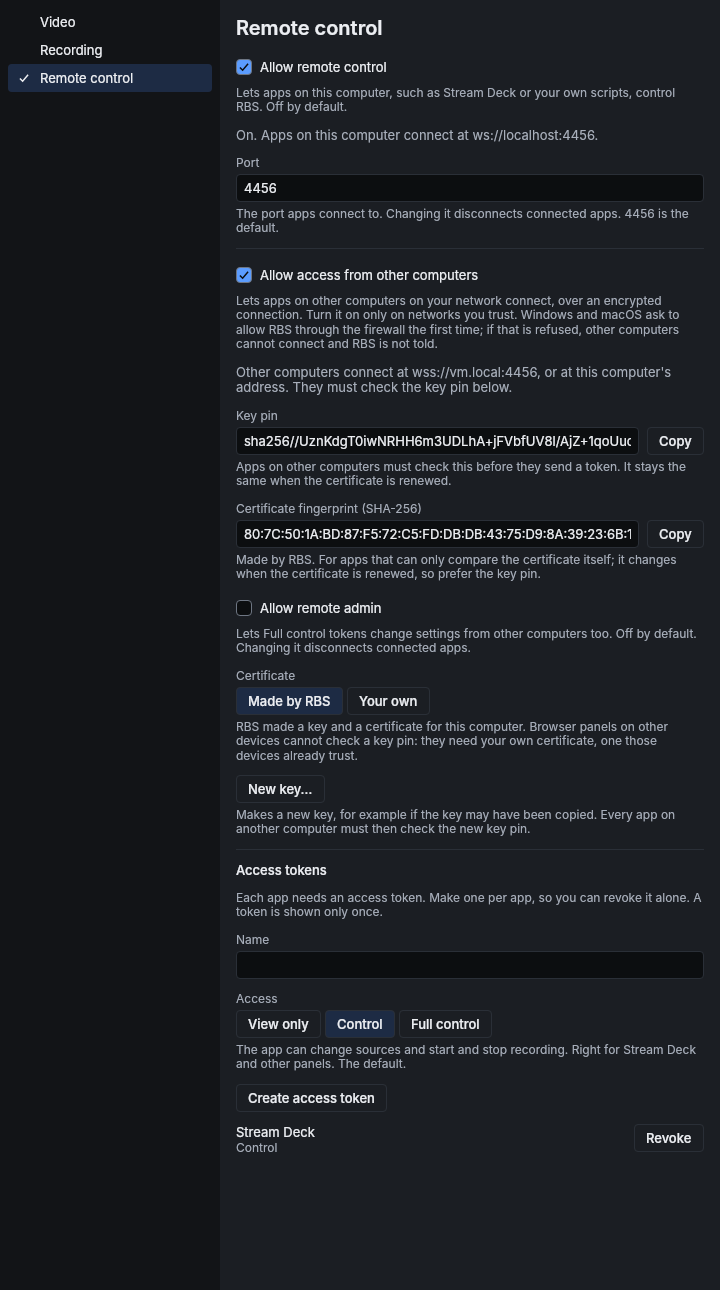
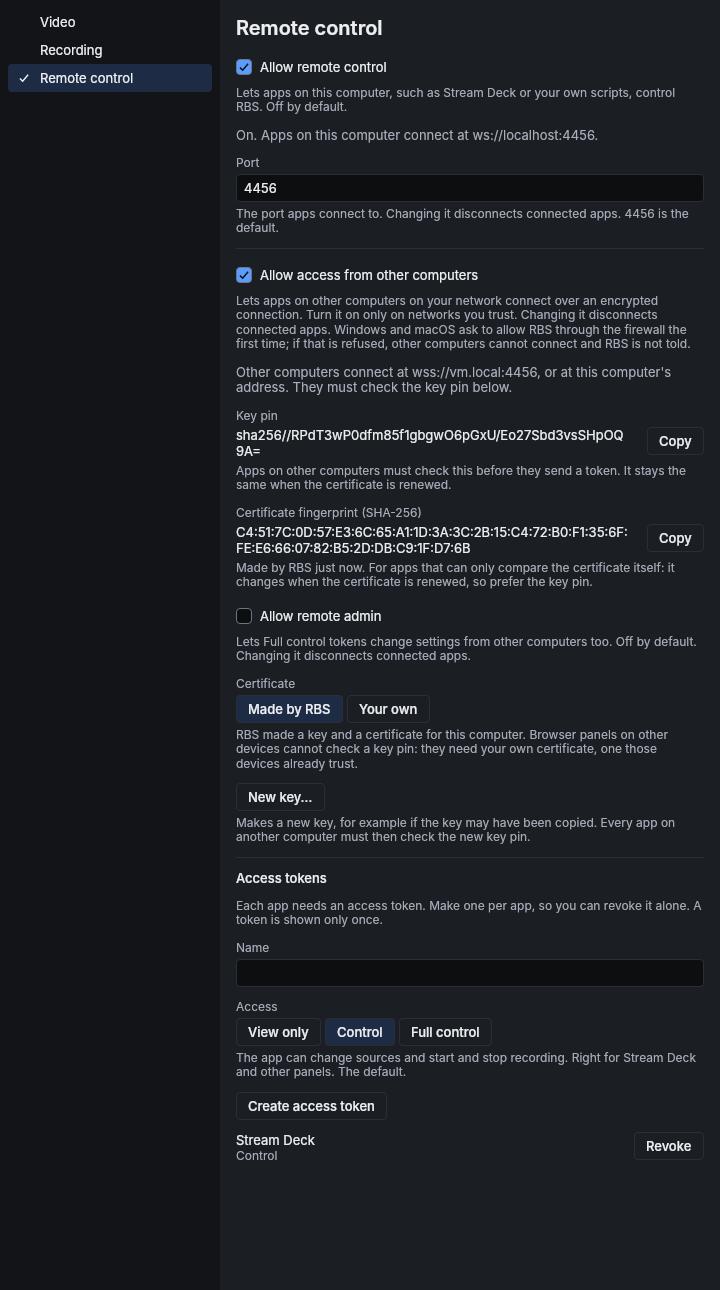
rbs-app network access: address the independent review
- The computer's name is worked out once when the server starts, not on
  every UI sync (it ran `hostname` per window per update).
- Tokens are read again under the lock before the certificate is made or
  renewed, since that saves the whole settings file: a revoke rbs-cli made
  meanwhile is no longer put back.
- The hints say that turning access from other computers on or off, or
  using other certificate files, disconnects connected apps.
- Problems with own files, New key or a busy settings file are shown next to
  those controls, with what to do.
- The Certificate control follows the setting in use: picking "Your own" is
  kept apart from the setting, so a refused change cannot leave it wrong.
- The key pin and fingerprint are shown whole (wrapping), each with Copy.
- When the server cannot start with access from other computers on, the
  message also offers turning that off. Wording: no "network access" or
  "client" in UI text, no sentence built from two parts.
- Screenshots retaken.

Claude-Session: https://claude.ai/code/session_01JNUCDRq8pS8ReK1uTvscCB

diff --git a/crates/rbs-app/src/studio_ui.rs b/crates/rbs-app/src/studio_ui.rs
@@ -129,6 +129,8 @@ pub struct StudioUi {
     network: Option<NetworkShown>,
     /// Why other computers cannot connect although network access is on.
     network_failure: Option<String>,
+    /// A problem with a network access change (own files, new key, busy settings).
+    network_note: String,
 }
 
 /// What the Remote control section shows while other computers can connect.
@@ -137,6 +139,8 @@ struct NetworkShown {
     fingerprint: String,
     /// Where the certificate came from, and whether it was just renewed.
     note: String,
+    /// The name other computers may use, worked out once when the server started.
+    host: Option<String>,
 }
 
 /// The remote control settings are locked by another program.
@@ -208,6 +212,7 @@ impl StudioUi {
             tokens: Rc::new(VecModel::default()),
             network: None,
             network_failure: None,
+            network_note: String::new(),
         };
         ui.refresh_tokens();
         ui
@@ -396,6 +401,7 @@ impl StudioUi {
         g.set_rc_cert_note(shown.map(|n| n.note.as_str()).unwrap_or_default().into());
         let (status, bad) = self.network_status();
         g.set_rc_network_status(status.into());
+        g.set_rc_network_note(self.network_note.as_str().into());
         g.set_rc_network_status_bad(bad);
     }
 
@@ -407,9 +413,10 @@ impl StudioUi {
         if let Some(why) = &self.network_failure {
             return (format!("Other computers cannot connect: {why}."), true);
         }
-        let name = network_access::host_names()
-            .into_iter()
-            .next()
+        let name = self
+            .network
+            .as_ref()
+            .and_then(|n| n.host.clone())
             .unwrap_or_else(|| "<this computer's address>".into());
         (
             format!(
@@ -429,7 +436,12 @@ impl StudioUi {
         if let Some(why) = &self.remote_failure {
             return (
                 format!(
-                    "Remote control is not running: {why}. Choose another port, or turn remote control off."
+                    "Remote control is not running: {why}. Choose another port, or turn remote control off{}.",
+                    if self.remote.network {
+                        " (or turn off access from other computers)"
+                    } else {
+                        ""
+                    }
                 ),
                 true,
             );
@@ -552,9 +564,13 @@ impl StudioUi {
                 None
             }
         };
+        // Under the lock: making or renewing the certificate saves the whole settings
+        // file, so it must hold the tokens as saved now (`rbs-cli` may have changed them).
+        self.reload_tokens();
         let prepared =
             network_access::prepare(&self.config, &mut self.remote, network_access::now());
         drop(lock);
+        let host_names = network_access::host_names();
         match prepared {
             Ok(p) => {
                 let note = match &p.source {
@@ -571,10 +587,14 @@ impl StudioUi {
                     }
                     Source::Generated { .. } => "Made by RBS.".into(),
                 };
+                let note = format!(
+                    "{note} For apps that can only compare the certificate itself: it changes when the certificate is renewed, so prefer the key pin."
+                );
                 self.network = Some(NetworkShown {
                     key_pin: p.identity.key_pin().to_owned(),
                     fingerprint: p.identity.fingerprint().to_owned(),
                     note,
+                    host: host_names.first().cloned(),
                 });
                 log(&format!(
                     "remote control: network access on, key pin {}{}",
@@ -587,7 +607,7 @@ impl StudioUi {
                 ));
                 Some(NetworkOptions {
                     identity: p.identity,
-                    host_names: network_access::host_names(),
+                    host_names,
                     allow_remote_admin: self.remote.remote_admin,
                 })
             }
@@ -634,13 +654,14 @@ impl StudioUi {
             key: PathBuf::from(key.trim()),
         };
         if let Some(why) = own.problem() {
-            self.remote_note = why;
+            self.network_note = why;
             return;
         }
         if let Err(why) = remote_profile::read_own(&own).and_then(|pem| {
             rbs_api_ws::TlsIdentity::from_pem(&pem.certificate, &pem.key).map(|_| ())
         }) {
-            self.remote_note = format!("These files were not used: {why}.");
+            self.network_note =
+                format!("These files were not used: {why}. Pick other files, or use Made by RBS.");
             return;
         }
         self.change_network(|r| {
@@ -659,6 +680,7 @@ impl StudioUi {
     /// disconnected.
     pub fn new_key(&mut self) {
         let Ok(lock) = self.lock_remote() else {
+            self.network_note = std::mem::take(&mut self.remote_note);
             return;
         };
         self.reload_tokens();
@@ -667,10 +689,10 @@ impl StudioUi {
         match made {
             Ok(()) => {
                 log("remote control: made a new key; clients must pin it again");
-                self.remote_note.clear();
+                self.network_note.clear();
                 self.restart_remote();
             }
-            Err(why) => self.remote_note = format!("No new key was made: {why}."),
+            Err(why) => self.network_note = format!("No new key was made: {why}. Try again."),
         }
     }
 
@@ -678,8 +700,10 @@ impl StudioUi {
     /// server when `f` changed something.
     fn change_network(&mut self, f: impl FnOnce(&mut RemoteProfile) -> bool) {
         let Ok(lock) = self.lock_remote() else {
+            self.network_note = std::mem::take(&mut self.remote_note);
             return;
         };
+        self.network_note.clear();
         self.reload_tokens();
         if !f(&mut self.remote) {
             return;

diff --git a/crates/rbs-app/src/network_access.rs b/crates/rbs-app/src/network_access.rs
@@ -77,7 +77,7 @@ fn computer_name() -> Option<String> {
     if cfg!(windows) {
         return std::env::var("COMPUTERNAME").ok();
     }
-    // `hostname` exists on every Unix; it runs once, when network access starts.
+    // `hostname` exists on every Unix. Called when the server starts, not per frame.
     let out = std::process::Command::new("hostname").output().ok()?;
     out.status
         .success()
@@ -118,12 +118,12 @@ pub fn prepare(config: &Path, profile: &mut RemoteProfile, now: i64) -> Result<P
             Ok(p)
         }
         None => Err(format!(
-            "the key RBS made for network access is missing from {}. Make a new key; every client must then pin it again",
+            "the key RBS made for access from other computers is missing from {}. Make a new key; every app on another computer must then check the new key pin",
             config.display()
         )),
         Some(pem) => {
             let mut identity = TlsIdentity::from_pem(&pem.certificate, &pem.key).map_err(|why| {
-                format!("the stored key and certificate cannot be used ({why}). Make a new key; every client must then pin it again")
+                format!("the stored key and certificate cannot be used ({why}). Make a new key; every app on another computer must then check the new key pin")
             })?;
             let renewed = profile
                 .certificate_expires
